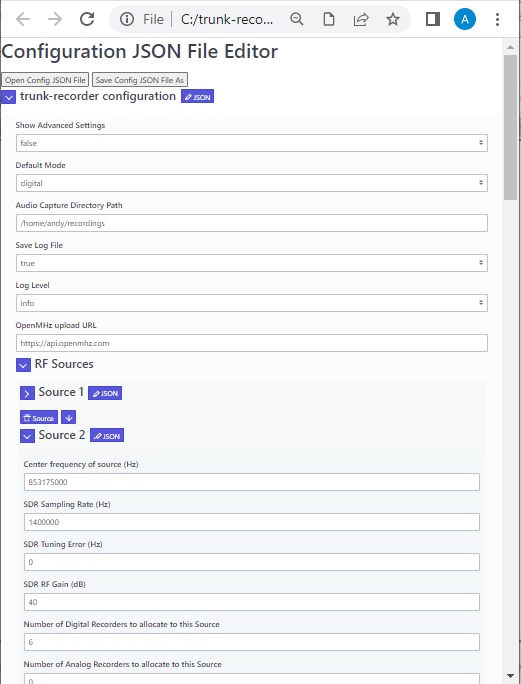
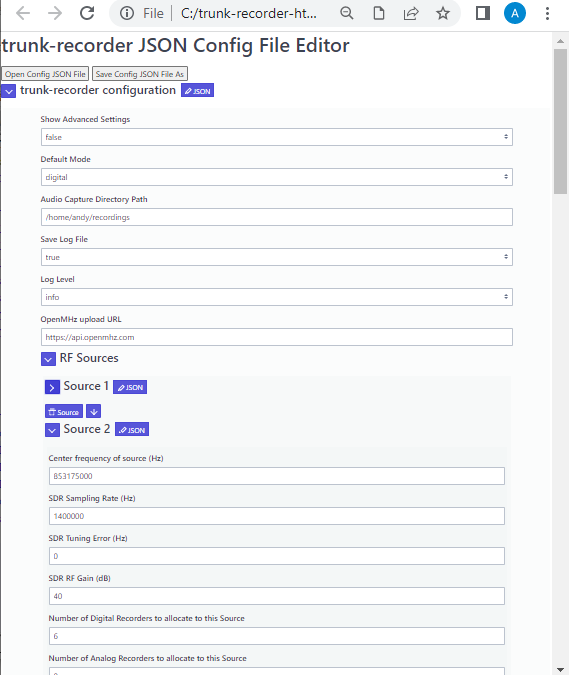
change screenshot

Changed region(s): [[0.0, 0.0, 1.0, 1.0], [0.0307, 0.0, 0.0614, 0.0311]]

diff --git a/TR_Config_Editor.html b/TR_Config_Editor.html
@@ -16,7 +16,7 @@
       }
   </style>
   <body>
-    <h1>Configuration JSON File Editor</h1>
+    <h1>trunk-recorder JSON Config File Editor</h1>
     <button id="buttonOpen">Open Config JSON File</button>
     <button id="buttonSaveAs">Save Config JSON File As</button>
     <div id="editor_holder" data-theme="html" class="je-ready"></div>    
